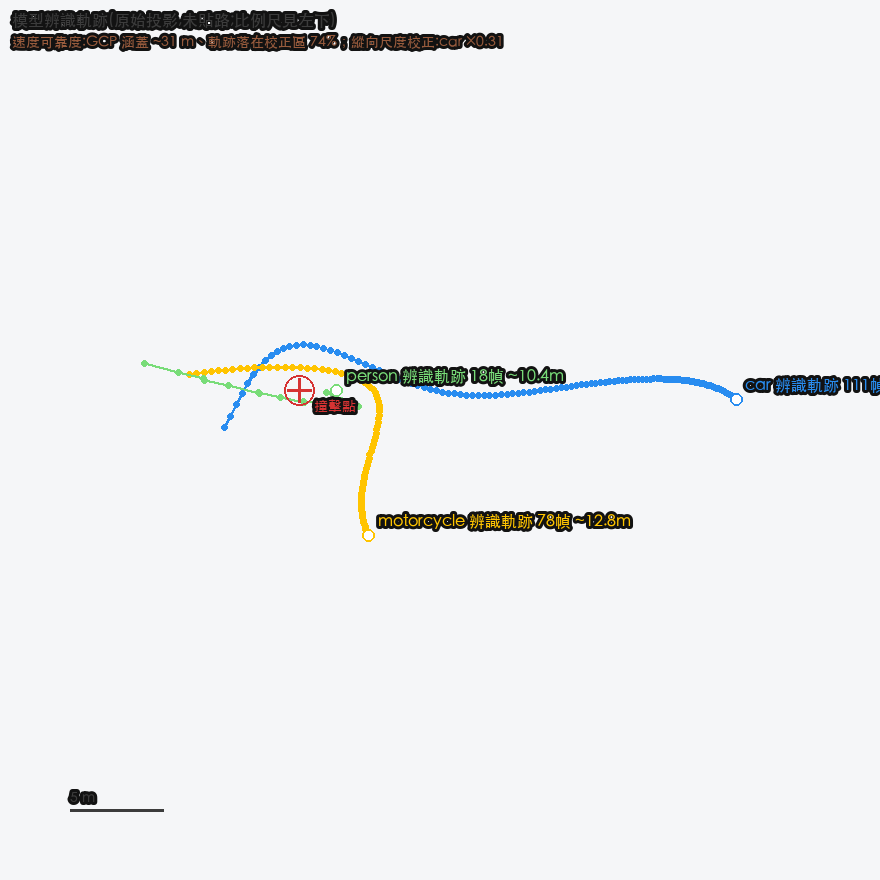
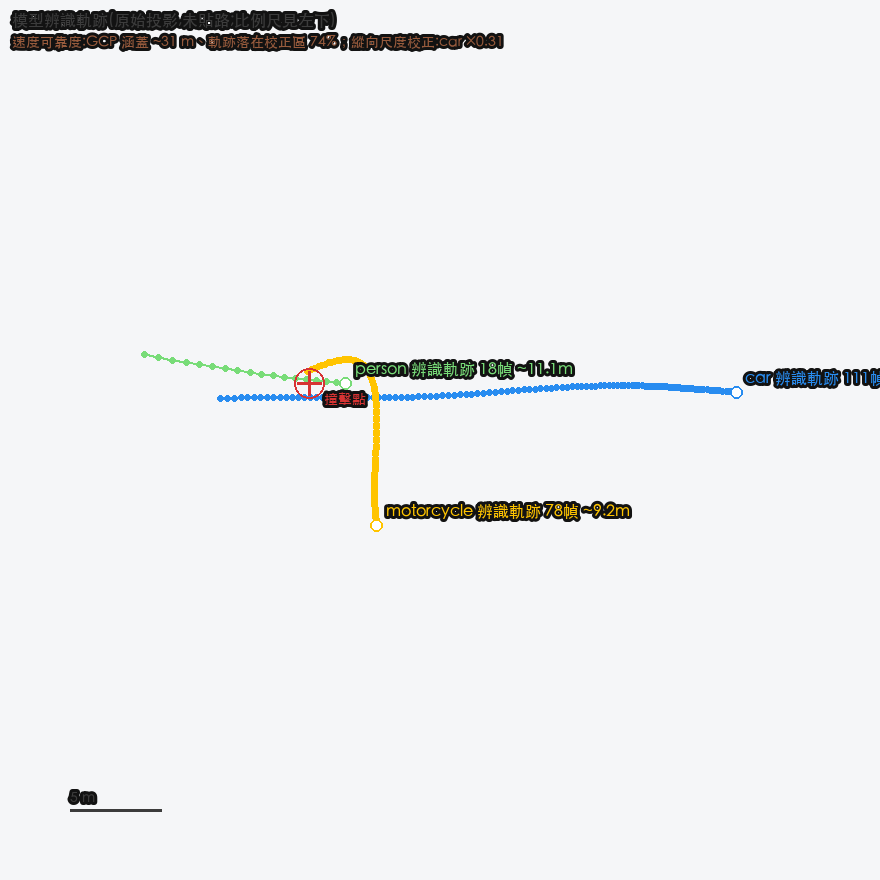
fix(smoothing): stop the filter diverging on raw anchors; regenerate figures
dd50765 made smoothing unconditional, which was right, but it applied a
meas_std of 0.08 m -- hand-tuned on BMW's CONTOUR-REFINED anchor -- to raw
homography anchors it had never been validated on. A raw anchor is an order of
magnitude noisier, so innovation gating rejected 83-91% of real measurements,
the filter ran predict-only and the constant-acceleration model extrapolated
freely. 7 of 13 recorded tracks left their data: 宜蘭五結's car reversed
direction and ran 57 m the wrong way, 台南永康's car by 105 m.

The failure passed the acceptance metrics because a diverged track is
perfectly smooth (mean |jerk| ~4). dd50765's docs recorded "jerk 15277 -> 4.4"
as a triumph when it partly meant the output had stopped following the
measurements. Low jerk is necessary for correct smoothing, not sufficient;
test_low_jerk_does_not_certify_a_smoothed_track now pins that down.

Three changes. estimate_measurement_std reads each track's own noise off the
p90 of its second difference -- p90 not median, because ground noise is not
uniform along a track and a median describes only the clean majority. A
divergence guard reverts a track whose MEDIAN sample left the data (median,
not max: correctly rejecting one tracking spike is the smoother working). The
guard's budget is also capped at half the track's path length, which catches a
short noisy track -- yilan's 18-frame pedestrian, 0.39 m of noise over 1.8 m
of walking -- where the filter has no signal and invents an 11 m sprint.
[…]

Changed region(s): [[0.1534, 0.3682, 1.0, 0.6136]]

diff --git a/accident_reconstruction/trajectory_smoothing.py b/accident_reconstruction/trajectory_smoothing.py
@@ -22,9 +22,44 @@ from __future__ import annotations
 import numpy as np
 from numpy.typing import NDArray
 
-# Anchor measurement noise, in metres. The on-contour anchor is pixel-quantised;
-# projected to the ground plane that is a few centimetres. Larger -> smoother.
+# Fallback anchor measurement noise, in metres, used only when a track is too
+# short to estimate from. The on-contour anchor is pixel-quantised; projected to
+# the ground plane that is a few centimetres.
+#
+# This is NOT a safe default for every track, which is why
+# :func:`estimate_measurement_std` now supplies it per track. It was tuned on the
+# contour-refined BMW anchor; a RAW homography anchor -- what a scene with no
+# contour sidecar carries, or a vehicle whose peak-speed guard reverted to legacy
+# -- is an order of magnitude noisier. Declaring 8 cm on such a track puts nearly
+# every real sample outside the innovation gate, so the filter ran predict-only
+# and the constant-acceleration model extrapolated freely: 7 of 13 recorded
+# vehicle tracks walked off their true path, 宜蘭五結's car reversing direction
+# and running 57 m the wrong way. Crucially the output stayed SMOOTH throughout
+# (mean |jerk| ~4), so the jerk metrics reported it as a success.
 DEFAULT_MEAS_STD_M = 0.08
+
+# Numerical floor for the estimated noise. A zero estimate makes the measurement
+# variance vanish, the Kalman gain saturate and the innovation gate divide by ~0.
+MIN_MEAS_STD_M = 0.01
+
+# How far the TYPICAL (median) smoothed sample may sit from its measurement
+# before the whole track is rejected as diverged. Scaled by the track's own noise
+# (a raw anchor is legitimately pulled further than a contour-refined one), with
+# a floor so a very clean track still gets room to smooth. Both are deliberately
+# loose: this is a net for a filter that has left the scene, not a cap on
+# smoothing strength.
+DIVERGENCE_TOLERANCE_M = 2.0
+DIVERGENCE_TOLERANCE_SIGMA = 6.0
+# ...and never more than this share of the track's own path length, which is what
+# catches a short track whose noise rivals its entire motion.
+DIVERGENCE_TOLERANCE_EXTENT = 0.5
+
+# Quantile of |second difference| used to estimate a track's noise, and the
+# standard-normal quantile that rescales it (Phi^-1((1+q)/2) for q = 0.9). High
+# enough to see a track's noisy stretch rather than only its clean majority,
+# low enough that a handful of tracking spikes do not set the level.
+_NOISE_QUANTILE = 0.9
+_NOISE_QUANTILE_Z = 1.6449
 
 # Process noise as a jerk "std" (m/s^3-ish); it scales the CA process covariance.
 # Smaller -> the model trusts its constant-acceleration prior more -> smoother but
@@ -53,6 +88,65 @@ def _dt_seconds(
     dt = np.diff(t)
     dt[dt <= 0] = 1.0 / max(fps, 1e-6)  # guard against zero/negative steps
     return dt
+
+
+def estimate_measurement_std(positions: NDArray[np.float64]) -> float:
+    """Estimate a track's per-sample measurement noise, in metres.
+
+    Reads the noise off the track's own high-frequency content, so a raw
+    homography anchor and a contour-refined one each get the ``meas_std`` they
+    actually deserve instead of one constant tuned on a single clip.
+
+    Uses the SECOND difference. At video frame rates the signal contributes
+    almost nothing to it -- a 20 m-radius turn taken in 3 s implies 5.5 m/s^2,
+    which over a 1/30 s step is 6 mm, far under any real anchor noise -- whereas
+    white measurement noise of std sigma gives second differences of variance
+    6*sigma^2.
+
+    Takes a HIGH QUANTILE of the absolute second difference, not the median.
+    Ground-plane noise is not uniform along a track: a vehicle far from the
+    camera has its pixel anchor projected through a much worse-conditioned part
+    of the homography, so one clip can carry centimetre noise near the camera and
+    decimetre noise at the far end. A median-based estimate describes the clean
+    majority and under-states the rest, which is the half of the failure the
+    fixed 0.08 m constant produced -- on three recorded tracks it still left 83-91%
+    of samples outside the gate. Erring high merely over-smooths a little;
+    erring low lets the filter leave the data entirely.
+
+    Args:
+        positions: ``(n, 2)`` positions of one track.
+
+    Returns:
+        The estimated noise std in metres, at least :data:`MIN_MEAS_STD_M`;
+        :data:`DEFAULT_MEAS_STD_M` when the track is too short (< 4 samples).
+
+    Examples:
+        ```python
+        rng = np.random.default_rng(0)
+        clean = np.column_stack([np.linspace(0, 30, 200), np.zeros(200)])
+        round(estimate_measurement_std(clean + rng.normal(0, 0.5, clean.shape)), 1)
+        # 0.5
+        ```
+    """
+    positions = np.asarray(positions, dtype=np.float64)
+    if len(positions) < 4:
+        return DEFAULT_MEAS_STD_M
+    second = np.diff(positions, n=2, axis=0)
+    # |second difference| is half-normal, so its q-quantile is sqrt(6)*sigma
+    # times the standard normal's (1+q)/2 quantile -- divide that back out.
+    scale = np.sqrt(6.0) * _NOISE_QUANTILE_Z
+    # Per axis, then take the larger: a track can be noisier across the view than
+    # along it, and under-stating the noise is the failure mode that hurts.
+    estimates = [
+        float(
+            np.quantile(
+                np.abs(second[:, axis] - np.median(second[:, axis])), _NOISE_QUANTILE
+            )
+        )
+        / scale
+        for axis in range(second.shape[1])
+    ]
+    return max(max(estimates), MIN_MEAS_STD_M)
 
 
 def trajectory_jerk(
@@ -219,7 +313,7 @@ def kalman_rts_smooth(
     fps: float,
     times: dict[int, float] | None = None,
     *,
-    meas_std: float = DEFAULT_MEAS_STD_M,
+    meas_std: float | None = None,
     process_std: float = DEFAULT_PROCESS_STD,
     gate_sigma: float = DEFAULT_GATE_SIGMA,
 ) -> NDArray[np.float64]:
@@ -230,7 +324,10 @@ def kalman_rts_smooth(
         positions: ``(n, 2)`` metric positions.
         fps: Frames per second (used when ``times`` is None).
         times: Optional ``{frame: t_sec}`` real timestamps (PTS) for VFR clips.
-        meas_std: Measurement noise std (m); larger -> smoother.
+        meas_std: Measurement noise std (m); larger -> smoother. Defaults to
+            :func:`estimate_measurement_std` on this track -- pass a value only
+            when you know the anchor's accuracy better than the data does, and
+            never a constant across tracks of differing provenance.
         process_std: Process (jerk) noise; smaller -> smoother / more prior.
         gate_sigma: Skip a measurement lying more than this many sigma from the
             prediction (innovation gating -- rejects real jumps, keeps noise).
@@ -243,8 +340,32 @@ def kalman_rts_smooth(
     if n < 3:
         return positions.copy()
     dt = _dt_seconds(frames, fps, times)
+    if meas_std is None:
+        meas_std = estimate_measurement_std(positions)
     meas_var = meas_std * meas_std
     out = np.empty_like(positions)
     out[:, 0] = _rts_smooth_axis(positions[:, 0], dt, meas_var, process_std, gate_sigma)
     out[:, 1] = _rts_smooth_axis(positions[:, 1], dt, meas_var, process_std, gate_sigma)
+
+    # Divergence guard, all-or-nothing per track. A smoothed path is allowed to
+    # shed noise, not to leave the observation: if the filter coasted (gate
+    # rejecting most samples) it produces a beautifully smooth line somewhere
+    # else entirely, and no jerk metric will say so. Mirrors the peak-speed guard
+    # in ``auto_reconstruct.refine_metric_from_contours`` -- when the stage cannot
+    # be trusted for this vehicle, hand back what it was given.
+    # MEDIAN deviation, not max: a diverged filter sits away from the data almost
+    # everywhere, whereas correctly rejecting a tracking spike means leaving one
+    # or two samples far behind -- which is the smoother working, not failing.
+    budget = max(DIVERGENCE_TOLERANCE_M, DIVERGENCE_TOLERANCE_SIGMA * meas_std)
+    # ...but never more than a fraction of how far the track actually travels.
+    # Scaling the budget by sigma alone is too generous for a SHORT, NOISY track,
+    # where the noise rivals the whole motion (yilan's 18-frame pedestrian: 0.39 m
+    # noise over 1.8 m of walking). There the filter has no signal to lock onto,
+    # trusts its prior and extrapolates -- turning a 1.4 m walk into an 11 m,
+    # 71 km/h sprint. A track that has to move by a large share of its own extent
+    # to look smooth is not being smoothed; it is being invented.
+    path_length = float(np.hypot(*np.diff(positions, axis=0).T).sum())
+    budget = min(budget, DIVERGENCE_TOLERANCE_EXTENT * path_length)
+    if float(np.median(np.hypot(*(out - positions).T))) > budget:
+        return positions.copy()
     return out

diff --git a/tests/test_trajectory_smoothing.py b/tests/test_trajectory_smoothing.py
@@ -128,6 +128,134 @@ def test_smooth_metric_covers_every_vehicle() -> None:
     assert out["person"] == metric["person"]  # short track passes through intact
 
 
+# Measurement noise of a RAW homography anchor, in metres. Every test above uses
+# 0.05 m, which is the CONTOUR-REFINED anchor the smoother's defaults were tuned
+# on (BMW). A raw anchor -- what a scene with no contour sidecar, or a vehicle
+# whose peak-speed guard reverted to legacy, actually carries -- is an order of
+# magnitude noisier. That gap is why the divergence below went unnoticed.
+RAW_ANCHOR_NOISE_M = (0.3, 0.8, 1.5)
+
+
+@pytest.mark.parametrize("noise", RAW_ANCHOR_NOISE_M)
+def test_kalman_does_not_diverge_on_raw_anchor_noise(noise: float) -> None:
+    """Regression: the smoother must FOLLOW the data, not coast away from it.
+
+    With ``meas_std`` fixed at 0.08 m, a track this noisy puts nearly every real
+    sample outside the 5-sigma innovation gate, so the filter runs predict-only
+    and the constant-acceleration model extrapolates freely. On the six recorded
+    scenes that walked 7 of 13 vehicle tracks off their true path -- 宜蘭五結's
+    car reversed direction and ran 57 m the wrong way; 台南永康's car left the
+    data by 105 m.
+
+    Two metres is generous: the point is to catch a track that has left the
+    scene, not to pin down the smoothing strength.
+    """
+    rng = np.random.default_rng(0)
+    fps, n = 30.0, 111
+    frames = list(range(n))
+    seconds = np.arange(n) / fps
+    # A car holding 7.5 m/s (27 km/h) in a straight line -- deliberately the
+    # simplest possible motion, so any departure is the filter's doing.
+    truth = np.column_stack([16.0 - 7.5 * seconds, np.full(n, 1.4)])
+    noisy = truth + rng.normal(scale=noise, size=truth.shape)
+
+    smoothed = ts.kalman_rts_smooth(frames, noisy, fps)
+
+    assert np.hypot(*(smoothed - truth).T).max() < 2.0
+
+
+def test_low_jerk_does_not_certify_a_smoothed_track() -> None:
+    """A diverged track is SMOOTH; jerk alone cannot tell the two apart.
+
+    This is the trap the original fix fell into: mean |jerk| dropping from 15277
+    to 4.4 read as a triumph, when it partly meant the output had stopped
+    following the measurements altogether. Any future tuning must assert
+    closeness to the data as well as plausibility of the motion.
+    """
+    rng = np.random.default_rng(0)
+    fps, n = 30.0, 111
+    frames = list(range(n))
+    truth = np.column_stack([16.0 - 7.5 * np.arange(n) / fps, np.full(n, 1.4)])
+    noisy = truth + rng.normal(scale=0.8, size=truth.shape)
+
+    smoothed = ts.kalman_rts_smooth(frames, noisy, fps)
+
+    # Plausible motion AND on the observed path -- both, or the track is wrong.
+    assert ts.trajectory_jerk(frames, smoothed, fps)["mean_abs"] < 15.0
+    assert np.hypot(*(smoothed - truth).T).mean() < 1.0
+
+
+def test_turn_survives_raw_anchor_noise() -> None:
+    """Fixing the divergence must not flatten a genuine manoeuvre into a line."""
+    rng = np.random.default_rng(3)
+    fps, n = 30.0, 90
+    frames = list(range(n))
+    angle = np.linspace(0.0, np.pi / 2, n)
+    truth = np.column_stack([20.0 * np.cos(angle), 20.0 * np.sin(angle)])
+    noisy = truth + rng.normal(scale=0.3, size=truth.shape)
+
+    smoothed = ts.kalman_rts_smooth(frames, noisy, fps)
+
+    # Follows the arc rather than cutting across it, and beats the raw input.
+    assert np.hypot(*(smoothed - truth).T).max() < 2.0
+    assert np.abs(smoothed - truth).mean() < np.abs(noisy - truth).mean()
+
+
+def test_estimate_measurement_std_reads_the_noise_off_the_track() -> None:
+    """The per-track noise estimate, across two orders of magnitude."""
+    rng = np.random.default_rng(0)
+    truth = np.column_stack([np.linspace(0, 30, 200), np.zeros(200)])
+
+    for noise in (0.05, 0.3, 1.5):
+        estimate = ts.estimate_measurement_std(
+            truth + rng.normal(0, noise, truth.shape)
+        )
+        # Within a factor of ~1.5 is ample -- meas_std sets the smoothing
+        # strength, and being in the right order of magnitude is what matters.
+        assert 0.67 * noise < estimate < 1.5 * noise
+
+
+def test_estimate_measurement_std_ignores_real_acceleration() -> None:
+    """A hard-braking car is not noise: its curvature must not inflate sigma."""
+    seconds = np.arange(150) / 30.0
+    braking = np.column_stack([20.0 * seconds - 3.0 * seconds**2, np.zeros(150)])
+
+    assert ts.estimate_measurement_std(braking) == ts.MIN_MEAS_STD_M
+
+
+def test_estimate_measurement_std_short_track_falls_back() -> None:
+    assert ts.estimate_measurement_std(np.zeros((3, 2))) == ts.DEFAULT_MEAS_STD_M
+
+
+def test_divergence_guard_returns_the_input() -> None:
+    """A track the filter cannot follow comes back untouched, not relocated.
+
+    Forced by passing a meas_std far below the real noise -- exactly the
+    condition the old fixed 0.08 m created on a raw anchor.
+    """
+    rng = np.random.default_rng(0)
+    frames = list(range(111))
+    truth = np.column_stack([16.0 - 7.5 * np.arange(111) / 30.0, np.full(111, 1.4)])
+    noisy = truth + rng.normal(scale=0.8, size=truth.shape)
+
+    smoothed = ts.kalman_rts_smooth(frames, noisy, 30.0, meas_std=0.08)
+
+    assert np.array_equal(smoothed, noisy)
+
+
+def test_divergence_guard_does_not_fire_on_normal_smoothing() -> None:
+    """The guard must not veto the ordinary case it exists to protect."""
+    rng = np.random.default_rng(1)
+    frames = list(range(60))
+    truth = np.column_stack([np.linspace(0, 20, 60), np.zeros(60)])
+    noisy = truth + rng.normal(scale=0.05, size=truth.shape)
+
+    smoothed = ts.kalman_rts_smooth(frames, noisy, 25.0)
+
+    assert not np.array_equal(smoothed, noisy)
+    assert ts.trajectory_jerk(frames, smoothed, 25.0)["mean_abs"] < 15.0
+
+
 def test_route_csv_row_keeps_enough_decimals_to_survive_differentiation() -> None:
     """The delivered CSV must not re-quantise the smoothed track back into jerk.
 
@@ -143,3 +271,23 @@ def test_route_csv_row_keeps_enough_decimals_to_survive_differentiation() -> Non
     assert len(lat.split(".")[1]) == 9
     assert len(lon.split(".")[1]) == 9
     assert float(lat) == pytest.approx(25.041234568, abs=1e-9)
+
+
+def test_short_noisy_track_is_not_invented() -> None:
+    """A track whose noise rivals its whole motion comes back untouched.
+
+    yilan's pedestrian: 18 frames, 1.4 m of walking, ~0.39 m of anchor noise.
+    With no signal to lock onto the filter follows its prior and extrapolates,
+    which turned that walk into an 11 m, 71 km/h sprint. Smoothing must not be
+    able to manufacture motion that is not in the data.
+    """
+    rng = np.random.default_rng(5)
+    fps, n = 30.0, 18
+    frames = list(range(n))
+    truth = np.column_stack([np.linspace(0.0, 1.4, n), np.zeros(n)])
+    noisy = truth + rng.normal(scale=0.39, size=truth.shape)
+
+    smoothed = ts.kalman_rts_smooth(frames, noisy, fps)
+
+    travelled = np.hypot(*(smoothed[-1] - smoothed[0]))
+    assert travelled < 3.0  # a walk, not a sprint

diff --git a/README.md b/README.md
@@ -61,6 +61,11 @@
 真實涵蓋整段行車路線時才可靠；GCP 擠在小範圍時殘差會很漂亮，車速卻被嚴重低估
 （下表因此並列 GCP 涵蓋範圍，詳見 [`docs/summary.md`](docs/summary.md)）。
 
+圖中軌跡已套用 Kalman-RTS 平滑，`meas_std` 逐軌跡估計並帶發散守門——最終輸出與原始投影的
+端點距離，13 條軌跡有 11 條落在 ±11% 內，即**平滑貼著量測、沒有自行編造路徑**。撞擊後數幀
+與軌跡末端仍可能偏離數公尺（等加速模型表達不了脈衝式碰撞），詳見
+[`docs/TRAJECTORY_SMOOTHING.md`](docs/TRAJECTORY_SMOOTHING.md)。
+
 <table>
   <tr>
     <td width="50%" valign="top">
